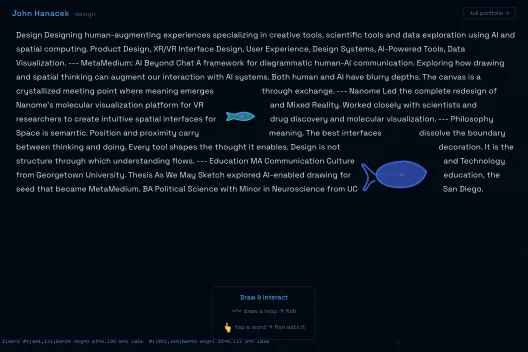
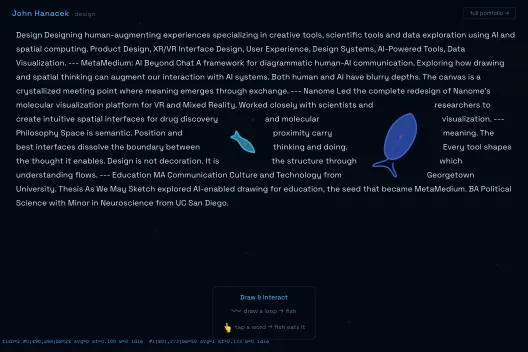
Voice in the data, first cut: the essay's ideas become chunks, READI joins
"What does John think about AI agents" led the bio; now it leads "Harness vs
Ecosystem" with Ratchet, Stigmergy, Fractal Delegation, Attractor Basins,
Polychronic Agents and The Living System beneath — seven chunks distilled
from onagents.html's own slides (page-backed by construction, each anchored
to its slide), plus a "How John thinks" intent that routes philosophy
questions there. CHUNK_AUDIT §I asks John to read them for voice.

READI (teamreadi.xyz) — the emergency-resource-allocation dashboard for San
Diego — gets a chunk transcribed from the product's own header and legend, a
captured poster, and a place in FRAMEABLE_HOSTS (no framing headers), so it
wakes live as a piece. 'teamready' returned nothing before.

Leadership & Teams learns director / lead / PM vocabulary and a levels
sentence built only from page-backed titles — John: name the Director role
and it goes in the content. Education expansion leads with degree words
(Research was outranking both schools); a Tools & stack intent; mixed
reality tags on Nanome and BadVR. The fish-demo poster is the tank itself.

Probed: every new query lands (how he thinks → 51/56/52/55; teamready /
readi / emergency dashboard → 58; school → Georgetown then UCSD; tools →
Skills & Tools; mixed reality → BadVR). intentlab 5/5; suites 3, 5, 6c, 8, 9,
10 green.

Changed region(s): [[0.0303, 0.25, 0.9697, 0.5938]]

diff --git a/scripts/search-core.js b/scripts/search-core.js
@@ -70,9 +70,16 @@
         { patterns: [/should\s+\w*\s*(hire|work\s+with|contract|engage)/i, /is\s+he\s+(good|qualified|worth|a\s+good\s+fit)/i, /why\s+\w*\s*(hire|choose|pick)\s+him/i, /what\s+makes\s+him\s+(stand\s+out|different|unique|special)/i, /why\s+should\s+\w+\s+hire/i], expanded: 'unique differentiator skills expertise experience awards shipped products design AI leadership', hint: 'Expertise, awards, and what makes him unique' },
         { patterns: [/what('s|\s+is)\s+his\s+background/i, /tell\s+me\s+about\s+(him|john|this\s+(guy|person))/i, /who\s+is\s+(he|john|this)/i, /what\s+does\s+he\s+do$/i, /^about$/i], expanded: 'about john hanacek innovator designer creator education career work history unique san diego', hint: 'Background and career overview' },
         { patterns: [/what\s+has\s+he\s+(built|made|created|shipped|designed|launched|delivered)/i, /his\s+(projects|portfolio|work)/i, /show\s+me\s+his\s+work/i, /what\s+are\s+his\s+projects/i, /shipped\s+(any|AI|products?)/i, /has\s+he\s+shipped/i], expanded: 'shipped AI products nanome badvr avatarmedic holotriage metamedium coaching built', hint: 'Shipped products and projects' },
+        // v2.1 "voice in the data": the orchestration essay's ideas are chunks
+        // 51–57; questions about how John THINKS route there, not to the bio
+        { patterns: [/what\s+does\s+(john|he)\s+think/i, /how\s+does\s+(john|he)\s+think/i, /his\s+(philosophy|approach|views?|take|thinking|principles?)\s+(on|about|to)/i, /(philosophy|principles?|beliefs?)\s+(on|about|of)\s+(ai|agents?|orchestration|design)/i, /agent\s+orchestration/i, /multi-?agent/i], expanded: 'philosophy how he thinks agents orchestration ecosystem harness stigmergy ratchet fractal attractor polychronic beliefs', hint: 'How John thinks' },
         { patterns: [/what\s+are\s+his\s+(skills|abilities|strengths)/i, /what\s+can\s+he\s+do/i, /his\s+(expertise|capabilities|specialties)/i, /areas\s+of\s+expertise/i], expanded: 'expertise skills AI XR robotics design product LLM agent spatial computing coding engineering', hint: 'Skills and areas of expertise' },
         { patterns: [/can\s+he\s+(code|program|write\s+code|develop|build|engineer)/i, /does\s+he\s+(code|program|write\s+code|develop|build)/i, /is\s+he\s+(technical|a\s+developer|an\s+engineer)/i, /coding|programming|technical\s+skills/i, /just\s+design/i], expanded: 'code coding programming engineer technical javascript html css python unity build ship prototype design engineering', hint: 'Design engineering and coding ability' },
-        { patterns: [/where\s+did\s+he\s+(go\s+to\s+school|study|graduate)/i, /his\s+education/i, /degree|university|college|school/i], expanded: 'education masters thesis Georgetown UCSD research publications', hint: 'Education and research' },
+        // expansion leads with the DEGREE words — "research publications" in
+        // here made chunk 24 (Research) outrank both schools for "where did he
+        // go to school"
+        { patterns: [/where\s+did\s+he\s+(go\s+to\s+school|study|graduate)/i, /his\s+education/i, /degree|university|college|school/i], expanded: 'education degree masters bachelors graduate school Georgetown UCSD university studied', hint: 'Education' },
+        { patterns: [/what\s+(tools|software|stack|programs?|apps?)\s+does\s+he\s+use/i, /his\s+(tools|toolset|tool\s*chain|tech\s+stack|software)/i, /what\s+does\s+he\s+(use|work\s+in|build\s+with)/i], expanded: 'skills tools software stack figma unity blender three.js claude code ollama obsidian coda', hint: 'Tools and stack' },
         { patterns: [/has\s+he\s+won\s+(any|an)\s+(award|prize)/i, /awards?|recognition|achievement|accomplishment/i, /what\s+has\s+he\s+(won|achieved|accomplished)/i, /biggest\s+(accomplishment|achievement)/i], expanded: 'awards innovation aerospace nist microsoft founder institute accomplishment achievement won', hint: 'Awards and recognition' },
         { patterns: [/schedul(e|ing)|book\s+(a\s+)?(call|meeting|session)|availability|set\s+up\s+a\s+(call|meeting|time)/i], expanded: 'services coaching intro call consultation contact email', hint: 'How to book time with John', card: 'schedule' },
         { patterns: [/how\s+(do\s+i|can\s+i|to)\s+(contact|reach|email|message)\s+(him|john)/i, /contact|email|linkedin|twitter|social/i, /send\s+(him|john)\s+a\s+message/i], expanded: 'contact email linkedin bluesky twitter social', hint: 'Contact information', card: 'contact' },
@@ -1661,7 +1668,9 @@
         // 2. Own + unframeable (Substack, SmugMug) → DEPARTURE CARD: local
         //    poster, title, hostname, explicit ↗. Leaving is labeled.
         // 3. Third-party → departure card, no allowlist entries, ever.
-        const FRAMEABLE_HOSTS = new Set(['jhana.zone', 'jjh111.github.io', 'earthstar.space']);
+        // teamreadi.xyz added 2026-08-31: John's product, sends no framing
+        // headers (checked) — CHUNK_AUDIT §I holds the ownership confirm
+        const FRAMEABLE_HOSTS = new Set(['jhana.zone', 'jjh111.github.io', 'earthstar.space', 'teamreadi.xyz']);
         function isFrameable(url) {
             try { return FRAMEABLE_HOSTS.has(new URL(url).hostname); } catch { return false; }
         }

diff --git a/Agent Reference/CHUNK_AUDIT.md b/Agent Reference/CHUNK_AUDIT.md
@@ -473,3 +473,24 @@ deliberately-unlisted experiments (tidepool, beach-beers) stay out.
 - [x] **35 / 37 / 38 piece posters** (§H, captured 2026-08-31 headless at 1056×704 →
   528w webp): `Assets/posters/fish-demo.webp`, `3d-sync-demo.webp`, `hypercube.webp`.
   Sleeping demo cards for chunks without an image rendered as blank boxes.
+- [ ] **26 Leadership & Teams** — John (2026-08-31): "I do have director and lead level
+  experience, and have done PM." Added a leadership-levels sentence built ONLY from
+  page-backed titles (CEO / Lead XR Product Designer / UI/UX Design Lead / founding
+  designer) plus PM framing from existing claims (product strategy, pitching, PRD
+  handoffs). **John: which role carried the Director title, and where?** — the word
+  "director" is in the TAGS so the query lands, but is not asserted in the content
+  until you name the role.
+- [x] **37 / 6** tags += mixed reality / MR — 'mixed reality' was leading Beliefs &
+  Philosophy on semantic drift; both chunks' content already says MR/AR.
+
+### §I — "how I think" MVP set + READI (2026-08-31, John-confirm the wording)
+- [ ] **51–57** distilled from onagents.html slides 7 / 8 / 17 / 16 / 12 / 4 / 25 — content
+  is condensed from the slides' own sentences (page-backed by construction), each url
+  anchors its slide. John: read the seven `content`/`tldr` strings for VOICE — they are
+  your ideas in near-verbatim form, but the framing sentences ("John's core stance…")
+  are mine.
+- [ ] **58 READI — Emergency Resource Allocation** — content transcribed from the live
+  product's own header and legend (teamreadi.xyz, captured 2026-08-31). John: your role
+  (built solo? with whom? year?) is NOT asserted — add a sentence. The host sends no
+  framing headers → added to FRAMEABLE_HOSTS so the piece wakes live; confirm you own
+  the property.
